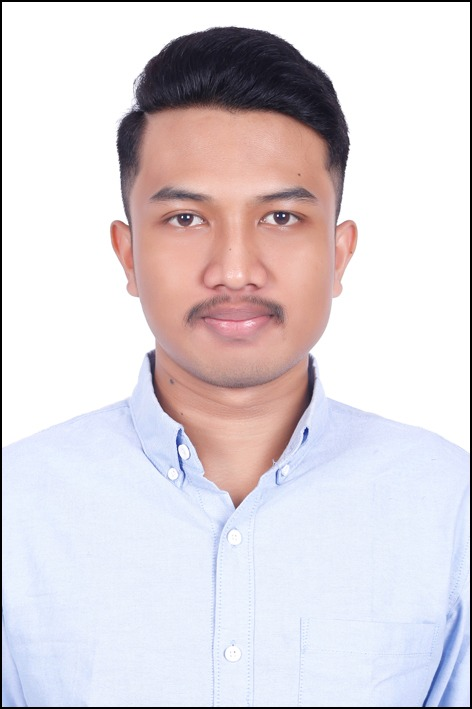
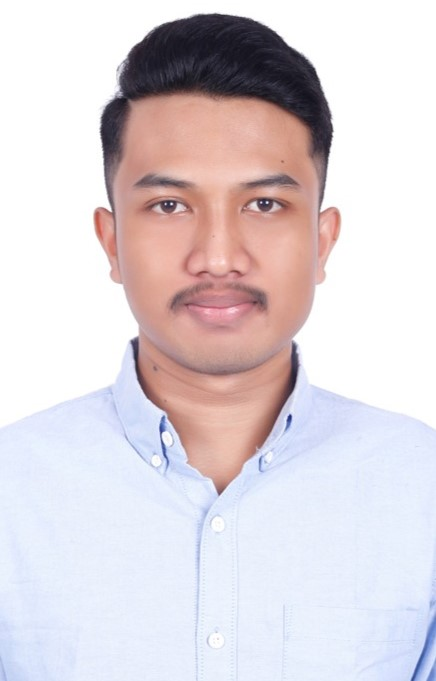
Edit Sinto photo

diff --git a/app/about/page.jsx b/app/about/page.jsx
@@ -197,11 +197,11 @@ const page = () => {
             <div className="grid grid-cols-1 md:grid-cols-2 px-4  items-start justify-center mt-3 gap-10">
               <div className=" justify-center items-start max-w-xl py-3 p-5 text-center">
                 <Image
-                  className="object-cover rounded-md"
+                  className="object-cover rounded-md "
                   width={200}
                   height={200}
                   src={require("@/assets/sinto.jpg")}
-                  alt={"Charlie Photos"}
+                  alt={"Sinto Photos"}
                 />
                 <h3 className="font-bold text-secondary text-2xl mt-5">
                   {"Sinto Widyo"}
